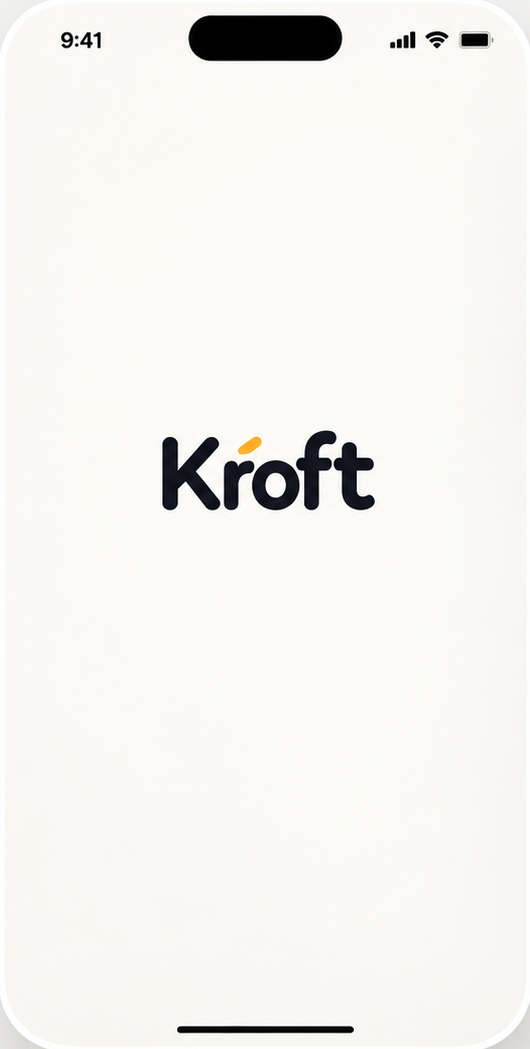
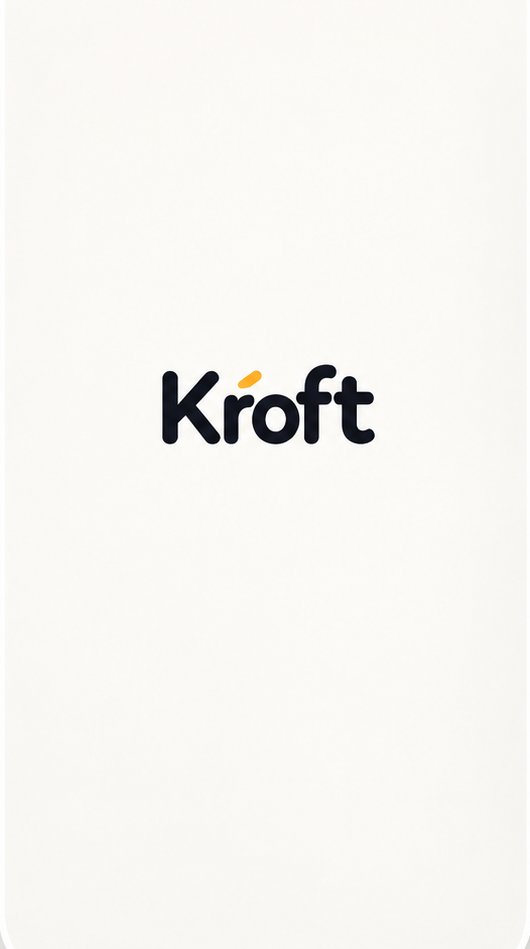
Strip status bar/notch/home indicator from onboarding images, wire up buttons
Re-crops both onboarding reference images to just the screen content
(removes the fake status bar, dynamic-island notch, and home indicator
bar that were baked into the mockup). Both screens now render inside a
wrapper that reproduces object-fit:contain sizing via a locked aspect
ratio, so two invisible button overlays can be positioned as exact
percentages of the image and stay pixel-aligned with the "Get Started"
and "I already have an account" buttons drawn into the picture at any
viewport size. Get Started -> signup, I already have an account ->
login, reusing the existing steps.

Claude-Session: https://claude.ai/code/session_01NsijwjqpWxU91ZDCU755R2

diff --git a/src/Kroft.jsx b/src/Kroft.jsx
@@ -953,23 +953,53 @@ const Tag = ({ children, hi, tone, style }) => {
   );
 };
 
-// Screen 1 of the onboarding reference, used as-is (the exact provided image, just cropped to
-// the phone's screen area) rather than recreated in code — per instruction, no layout/behavior
-// added here yet, just placing the image as this step.
+// Both onboarding images are cropped to the phone's screen content only (status bar/notch and
+// home indicator removed), at a fixed 531:949 pixel ratio. This wrapper reproduces
+// object-fit:contain sizing manually (max-width driven by height*ratio, max-height driven by
+// width/ratio) so the rendered box always has that exact same ratio, at any viewport size — which
+// is what makes the percentage-based button overlays in WelcomeScreen line up with the image
+// pixels underneath them regardless of device screen shape.
+const ONBOARD_RATIO = 531 / 949;
+const OnboardImageFrame = ({ children }) => (
+  <div style={{ position:"fixed", inset:0, background:"#f4f2ee", display:"flex", alignItems:"center", justifyContent:"center" }}>
+    <div style={{ position:"relative", width:"100%", height:"100%", maxWidth:`calc(100vh * ${ONBOARD_RATIO})`, maxHeight:`calc(100vw / ${ONBOARD_RATIO})` }}>
+      {children}
+    </div>
+  </div>
+);
+
+// Screen 1 of the onboarding reference, used as-is (the exact provided image, cropped to just the
+// phone's screen content) rather than recreated in code.
 function SplashScreen({ fading }) {
   return (
-    <div style={{ position:"fixed", inset:0, zIndex:9999, background:"#f4f2ee", opacity:fading?0:1, transition:"opacity .6s ease", pointerEvents:fading?"none":"all" }}>
-      <img src="/onboarding-screen-1.png" alt="" style={{ width:"100%", height:"100%", objectFit:"contain" }} />
+    <div style={{ position:"fixed", inset:0, zIndex:9999, opacity:fading?0:1, transition:"opacity .6s ease", pointerEvents:fading?"none":"all" }}>
+      <OnboardImageFrame>
+        <img src="/onboarding-screen-1.png" alt="" style={{ width:"100%", height:"100%", display:"block" }} />
+      </OnboardImageFrame>
     </div>
   );
 }
 
-// Screen 2 of the onboarding reference, same as above — the exact provided image, cropped to the
-// phone's screen area, placed as-is. Not yet wired to any navigation/behavior.
-function WelcomeScreen() {
+// Screen 2 of the onboarding reference — same exact image, plus two invisible clickable overlays
+// positioned (as percentages of the image's own pixel dimensions) exactly over the "Get Started"
+// and "I already have an account" buttons drawn into the picture, so tapping the picture's own
+// buttons triggers real navigation without redrawing them.
+function WelcomeScreen({ onGetStarted, onLogIn }) {
   return (
-    <div style={{ position:"fixed", inset:0, zIndex:900, background:"#f4f2ee" }}>
-      <img src="/onboarding-screen-2.png" alt="" style={{ width:"100%", height:"100%", objectFit:"contain" }} />
+    <div style={{ position:"fixed", inset:0, zIndex:900 }}>
+      <OnboardImageFrame>
+        <img src="/onboarding-screen-2.png" alt="" style={{ width:"100%", height:"100%", display:"block" }} />
+        <button
+          onClick={onGetStarted}
+          aria-label="Get Started"
+          style={{ position:"absolute", left:"6.8%", top:"81.1%", width:"87.1%", height:"7.1%", background:"transparent", border:"none", padding:0, cursor:"pointer" }}
+        />
+        <button
+          onClick={onLogIn}
+          aria-label="I already have an account"
+          style={{ position:"absolute", left:"6.8%", top:"89.8%", width:"87.1%", height:"7.2%", background:"transparent", border:"none", padding:0, cursor:"pointer" }}
+        />
+      </OnboardImageFrame>
     </div>
   );
 }
@@ -6343,7 +6373,9 @@ ${voiceMode
     <div key={themeTick} style={{ fontFamily:"'Space Grotesk',sans-serif", overflowX:"hidden", maxWidth:"100vw", touchAction:"pan-y" }}>
       <style>{G}</style>
 
-      {step === "welcome" && <WelcomeScreen />}
+      {step === "welcome" && (
+        <WelcomeScreen onGetStarted={() => setStep("signup")} onLogIn={() => setStep("login")} />
+      )}
 
       {step === "login" && (
         <OShell step="login">
